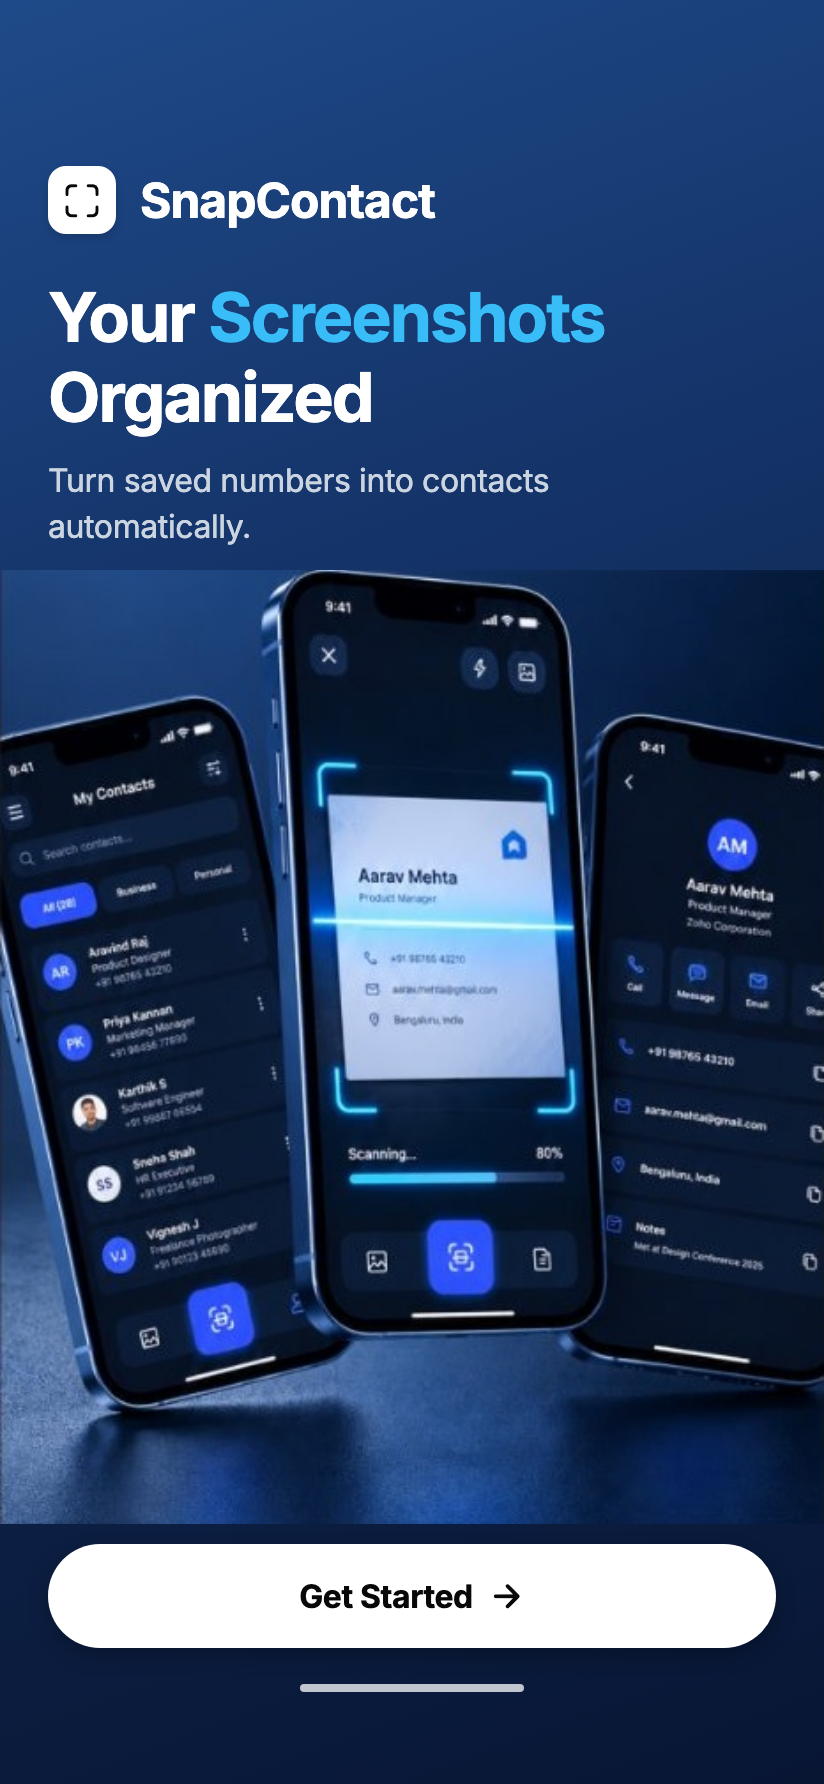
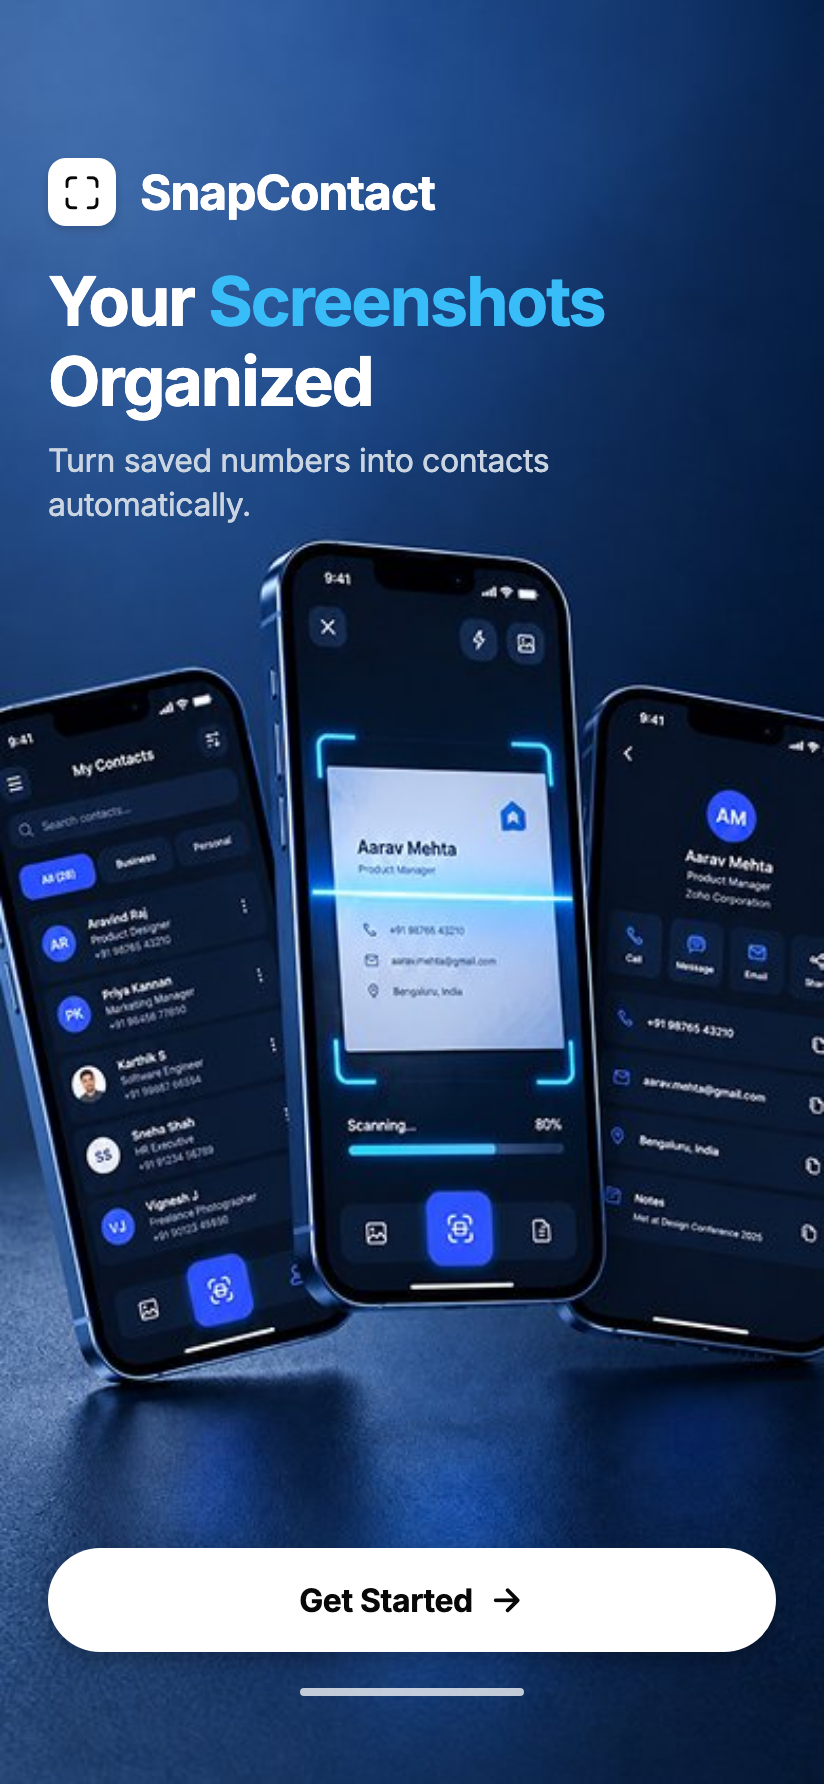
feat(onboarding): apply user-provided master 390x844 background asset with edge-to-edge phones

diff --git a/artifacts/snapcontact/components/Onboarding.tsx b/artifacts/snapcontact/components/Onboarding.tsx
@@ -15,184 +15,173 @@ export function Onboarding({ onDone }: { onDone: () => void }) {
 
   return (
     <View style={{ flex: 1, backgroundColor: '#091838' }} testID="onboarding">
-      <LinearGradient
-        colors={['#1F4A89', '#143368', '#0D2146', '#081634']}
-        start={{ x: 0.1, y: 0 }}
-        end={{ x: 0.9, y: 1 }}
-        style={{ flex: 1 }}
+      {/* High-Resolution Master Background Asset with 3D Phones & Ambient Lighting */}
+      <Image
+        source={require('@/assets/images/onboarding_bg.jpg')}
+        style={{
+          position: 'absolute',
+          top: 0,
+          left: 0,
+          right: 0,
+          bottom: 0,
+          width: '100%',
+          height: '100%',
+        }}
+        resizeMode="cover"
+        accessibilityLabel="SnapContact preview showing contact extraction, live scanner, and contact profile"
+      />
+
+      <View
+        style={{
+          flex: 1,
+          width: '100%',
+          paddingTop: Math.max(i.top, 44) + (isCompact ? 6 : 12),
+          paddingBottom: Math.max(i.bottom, 20) + 10,
+          justifyContent: 'space-between',
+        }}
       >
-        <View
+        {/* Header & Typography Section */}
+        <Animated.View
+          entering={FadeInDown.duration(450)}
           style={{
-            flex: 1,
+            paddingHorizontal: 24,
+            maxWidth: contentMaxWidth,
             width: '100%',
-            paddingTop: Math.max(i.top, 44) + (isCompact ? 8 : 16),
-            paddingBottom: Math.max(i.bottom, 20) + 12,
-            justifyContent: 'space-between',
+            alignSelf: 'center',
           }}
         >
-          {/* Header & Typography Section */}
-          <Animated.View
-            entering={FadeInDown.duration(450)}
+          {/* App Logo & Title */}
+          <View
             style={{
-              paddingHorizontal: 24,
-              maxWidth: contentMaxWidth,
-              width: '100%',
-              alignSelf: 'center',
+              flexDirection: 'row',
+              alignItems: 'center',
+              gap: 12,
+              marginBottom: isCompact ? 12 : 18,
             }}
           >
-            {/* App Logo & Title */}
             <View
               style={{
-                flexDirection: 'row',
+                width: 34,
+                height: 34,
+                borderRadius: 9,
+                backgroundColor: '#FFFFFF',
                 alignItems: 'center',
-                gap: 12,
-                marginBottom: isCompact ? 14 : 22,
+                justifyContent: 'center',
+                shadowColor: '#000',
+                shadowOffset: { width: 0, height: 2 },
+                shadowOpacity: 0.15,
+                shadowRadius: 4,
+                elevation: 2,
               }}
             >
-              <View
-                style={{
-                  width: 34,
-                  height: 34,
-                  borderRadius: 9,
-                  backgroundColor: '#FFFFFF',
-                  alignItems: 'center',
-                  justifyContent: 'center',
-                  shadowColor: '#000',
-                  shadowOffset: { width: 0, height: 2 },
-                  shadowOpacity: 0.15,
-                  shadowRadius: 4,
-                  elevation: 2,
-                }}
-              >
-                <Ionicons name="scan-outline" size={20} color="#080809" />
-              </View>
-              <Text
-                style={{
-                  color: '#FFFFFF',
-                  fontFamily: F.b,
-                  fontSize: 24,
-                  letterSpacing: -0.5,
-                }}
-              >
-                SnapContact
-              </Text>
+              <Ionicons name="scan-outline" size={20} color="#080809" />
             </View>
-
-            {/* Main Headline with Sky Blue Accent */}
             <Text
-              accessibilityRole="header"
               style={{
+                color: '#FFFFFF',
                 fontFamily: F.b,
-                fontSize: isCompact ? 28 : 34,
-                lineHeight: isCompact ? 34 : 40,
-                letterSpacing: -1,
-                marginBottom: 10,
+                fontSize: 24,
+                letterSpacing: -0.5,
               }}
             >
-              <Text style={{ color: '#FFFFFF' }}>Your </Text>
-              <Text style={{ color: '#38BDF8' }}>Screenshots{'\n'}</Text>
-              <Text style={{ color: '#FFFFFF' }}>Organized</Text>
+              SnapContact
             </Text>
+          </View>
 
-            {/* Supporting Subtitle */}
+          {/* Main Headline with Sky Blue Accent */}
+          <Text
+            accessibilityRole="header"
+            style={{
+              fontFamily: F.b,
+              fontSize: isCompact ? 28 : 34,
+              lineHeight: isCompact ? 34 : 40,
+              letterSpacing: -1,
+              marginBottom: 8,
+            }}
+          >
+            <Text style={{ color: '#FFFFFF' }}>Your </Text>
+            <Text style={{ color: '#38BDF8' }}>Screenshots{'\n'}</Text>
+            <Text style={{ color: '#FFFFFF' }}>Organized</Text>
+          </Text>
+
+          {/* Supporting Subtitle */}
+          <Text
+            style={{
+              color: '#CBD5E1',
+              fontFamily: F.r,
+              fontSize: 16,
+              lineHeight: 22,
+              letterSpacing: -0.2,
+            }}
+          >
+            Turn saved numbers into contacts{'\n'}automatically.
+          </Text>
+        </Animated.View>
+
+        {/* Flexible middle space allowing background phones to display unobstructed */}
+        <View style={{ flex: 1 }} />
+
+        {/* Bottom CTA Button & Home Indicator */}
+        <Animated.View
+          entering={FadeInDown.delay(350).duration(450)}
+          style={{
+            paddingHorizontal: 24,
+            maxWidth: contentMaxWidth,
+            width: '100%',
+            alignSelf: 'center',
+          }}
+        >
+          <PressScale
+            testID="get-started"
+            accessibilityRole="button"
+            accessibilityLabel="Get Started"
+            onPress={() => {
+              tap('medium');
+              onDone();
+            }}
+            style={{
+              backgroundColor: '#FFFFFF',
+              minHeight: 52,
+              borderRadius: 999,
+              flexDirection: 'row',
+              alignItems: 'center',
+              justifyContent: 'center',
+              gap: 8,
+              paddingHorizontal: 28,
+              shadowColor: '#000',
+              shadowOffset: { width: 0, height: 4 },
+              shadowOpacity: 0.25,
+              shadowRadius: 10,
+              elevation: 4,
+            }}
+          >
             <Text
               style={{
-                color: '#CBD5E1',
-                fontFamily: F.r,
+                color: '#080809',
+                fontFamily: F.b,
                 fontSize: 16,
-                lineHeight: 23,
                 letterSpacing: -0.2,
               }}
             >
-              Turn saved numbers into contacts{'\n'}automatically.
+              Get Started
             </Text>
-          </Animated.View>
+            <Ionicons name="arrow-forward" size={18} color="#080809" />
+          </PressScale>
 
-          {/* Hero 3D Mockup Visual - Edge to edge, utilizing full width and side areas! */}
-          <Animated.View
-            entering={FadeIn.delay(200).duration(600)}
+          {/* Subtle Home Indicator Bar */}
+          <View
             style={{
-              flex: 1,
-              width: '100%',
-              alignItems: 'center',
-              justifyContent: 'center',
-              overflow: 'hidden',
-              marginVertical: isCompact ? 4 : 10,
-            }}
-          >
-            <Image
-              source={require('@/assets/images/onboarding_phones.png')}
-              style={{
-                width: '100%',
-                height: '100%',
-              }}
-              resizeMode="cover"
-              accessibilityLabel="SnapContact preview showing contact extraction, live scanner, and contact profile"
-            />
-          </Animated.View>
-
-          {/* Bottom CTA Button & Home Indicator */}
-          <Animated.View
-            entering={FadeInDown.delay(350).duration(450)}
-            style={{
-              paddingHorizontal: 24,
-              maxWidth: contentMaxWidth,
-              width: '100%',
+              width: 112,
+              height: 4,
+              borderRadius: 2,
+              backgroundColor: '#FFFFFF',
+              opacity: 0.75,
               alignSelf: 'center',
+              marginTop: 18,
             }}
-          >
-            <PressScale
-              testID="get-started"
-              accessibilityRole="button"
-              accessibilityLabel="Get Started"
-              onPress={() => {
-                tap('medium');
-                onDone();
-              }}
-              style={{
-                backgroundColor: '#FFFFFF',
-                minHeight: 52,
-                borderRadius: 999,
-                flexDirection: 'row',
-                alignItems: 'center',
-                justifyContent: 'center',
-                gap: 8,
-                paddingHorizontal: 28,
-                shadowColor: '#000',
-                shadowOffset: { width: 0, height: 4 },
-                shadowOpacity: 0.25,
-                shadowRadius: 10,
-                elevation: 4,
-              }}
-            >
-              <Text
-                style={{
-                  color: '#080809',
-                  fontFamily: F.b,
-                  fontSize: 16,
-                  letterSpacing: -0.2,
-                }}
-              >
-                Get Started
-              </Text>
-              <Ionicons name="arrow-forward" size={18} color="#080809" />
-            </PressScale>
-
-            {/* Subtle Home Indicator Bar */}
-            <View
-              style={{
-                width: 112,
-                height: 4,
-                borderRadius: 2,
-                backgroundColor: '#FFFFFF',
-                opacity: 0.75,
-                alignSelf: 'center',
-                marginTop: 18,
-              }}
-            />
-          </Animated.View>
-        </View>
-      </LinearGradient>
+          />
+        </Animated.View>
+      </View>
     </View>
   );
 }
